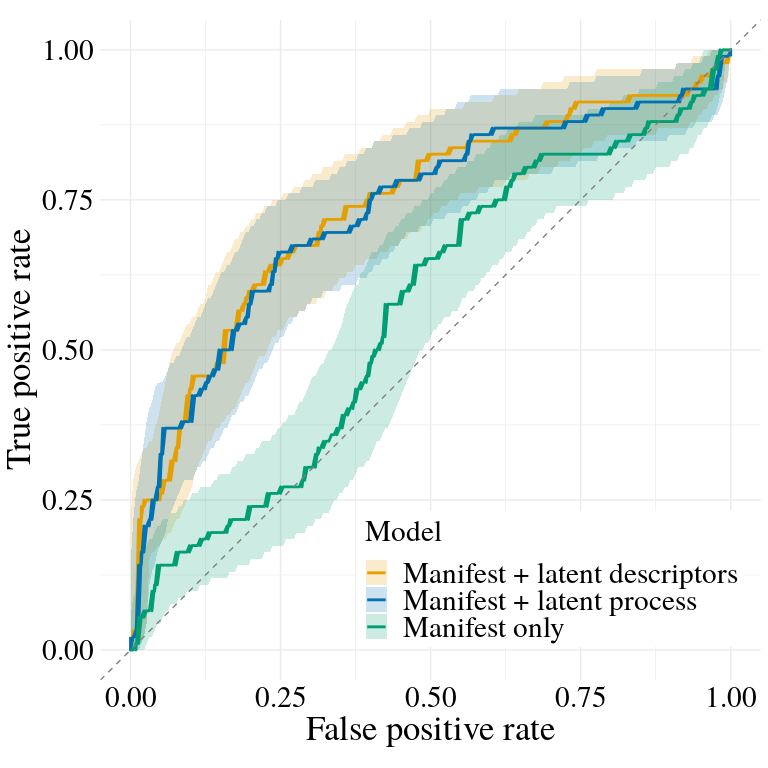
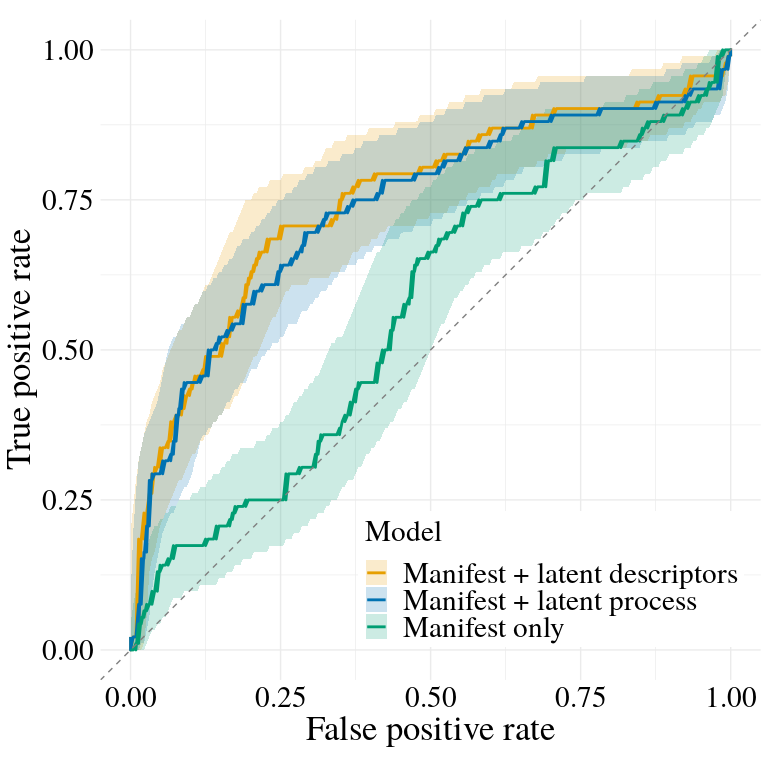
Update results with tidy variable names

diff --git a/scripts/README.md b/scripts/README.md
@@ -7,6 +7,13 @@ Partially observable predictor models for identifying cognitive markers
 - [Cross-Validation Results](#cross-validation-results)
 - [Full Information Results](#full-information-results)
 
+These results belong to “Partially observable predictor models for
+identifying cognitive markers” by Zita Oravecz, Martin Sliwinski, Sharon
+H. Kim, Lindy Williams, Mindy J. Katz, and Joachim Vandekerckhove.
+
+Note that due to randomness in the MCMC procedure, these results may not
+exactly match the results in the paper.
+
 ### Load processed results
 
 ``` r
@@ -31,11 +38,11 @@ model_colors <- c(
 
 #### AUC Results
 
-|               | Model                         | AUC                    | Folds |
-|:--------------|:------------------------------|:-----------------------|------:|
-| manifest      | Manifest only                 | 0.565 \[0.495, 0.635\] |    10 |
-| descriptive   | Manifest + latent descriptors | 0.738 \[0.673, 0.803\] |    10 |
-| process_model | Manifest + latent process     | 0.730 \[0.664, 0.797\] |    10 |
+|               | Model                         | AUC                       | Folds |
+|:--------------|:------------------------------|:--------------------------|------:|
+| manifest      | Manifest only                 | 0.5640 \[0.4938, 0.6342\] |    10 |
+| descriptive   | Manifest + latent descriptors | 0.7371 \[0.6717, 0.8026\] |    10 |
+| process_model | Manifest + latent process     | 0.7346 \[0.6680, 0.8013\] |    10 |
 
 Cross-validation AUC results with 95% confidence intervals
 
@@ -43,36 +50,15 @@ Cross-validation AUC results with 95% confidence intervals
 
 #### Coefficient estimates for Manifest only
 
-|              |   mean |    sd |   2.5% | 97.5% |
-|:-------------|-------:|------:|-------:|------:|
-| coeff_age    |  0.279 | 0.123 |  0.039 | 0.518 |
-| coeff_gender | -0.235 | 0.262 | -0.747 | 0.278 |
-| coeff_educ   |  0.072 | 0.135 | -0.194 | 0.339 |
-| coeff_black  |  0.679 | 0.272 |  0.155 | 1.211 |
-| coeff_hisp   |  0.452 | 0.394 | -0.323 | 1.229 |
+|                  |    mean |     sd |    2.5% |   97.5% |
+|:-----------------|--------:|-------:|--------:|--------:|
+| intercept_latent | -1.1898 | 0.2562 | -1.7038 | -0.7059 |
+| coeff_age        |  0.2921 | 0.1265 |  0.0426 |  0.5394 |
+| coeff_gender     | -0.2303 | 0.2808 | -0.7640 |  0.3287 |
+| coeff_educ       |  0.0972 | 0.1383 | -0.1695 |  0.3744 |
+| coeff_black      |  0.7985 | 0.2968 |  0.2196 |  1.3916 |
+| coeff_hisp       |  0.6117 | 0.4340 | -0.2352 |  1.4633 |
 
 #### Coefficient estimates for Manifest + latent descriptors
 
-|              |   mean |    sd |   2.5% | 97.5% |
-|:-------------|-------:|------:|-------:|------:|
-| coeff_ssa    |  0.705 | 0.172 |  0.378 | 1.050 |
-| coeff_sss    |  0.515 | 0.649 | -0.759 | 1.801 |
-| coeff_age    |  0.183 | 0.129 | -0.070 | 0.436 |
-| coeff_gender | -0.244 | 0.272 | -0.776 | 0.298 |
-| coeff_educ   |  0.160 | 0.138 | -0.112 | 0.434 |
-| coeff_black  |  0.433 | 0.281 | -0.117 | 0.991 |
-| coeff_hisp   |  0.269 | 0.403 | -0.524 | 1.045 |
-
 #### Coefficient estimates for Manifest + latent process
-
-|                      |   mean |    sd |   2.5% |  97.5% |
-|:---------------------|-------:|------:|-------:|-------:|
-| coeffMCIAsymptote    |  0.643 | 0.230 |  0.195 |  1.100 |
-| coeffMCIIIV          |  0.838 | 0.573 | -0.270 |  1.993 |
-| coeffMCIGain         | -0.033 | 0.163 | -0.359 |  0.283 |
-| coeffMCILearning     | -1.405 | 0.610 | -2.616 | -0.229 |
-| coeffMCIAge          |  0.192 | 0.137 | -0.077 |  0.460 |
-| coeffMCIGender       | -0.194 | 0.284 | -0.748 |  0.372 |
-| coeffMCIEduc         |  0.190 | 0.145 | -0.092 |  0.475 |
-| coeffMCIEthnic_Black |  0.485 | 0.293 | -0.088 |  1.065 |
-| coeffMCIEthnic_Hisp  |  0.292 | 0.416 | -0.530 |  1.095 |
